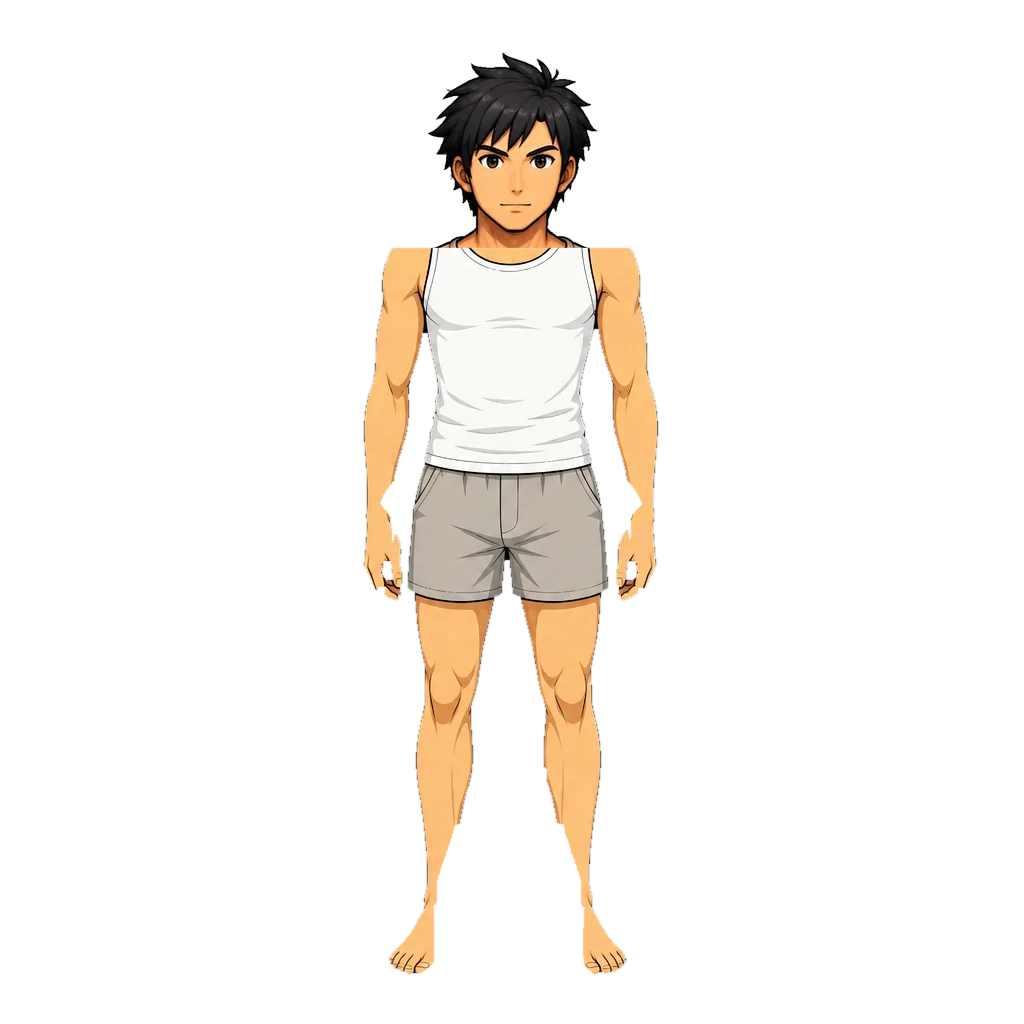
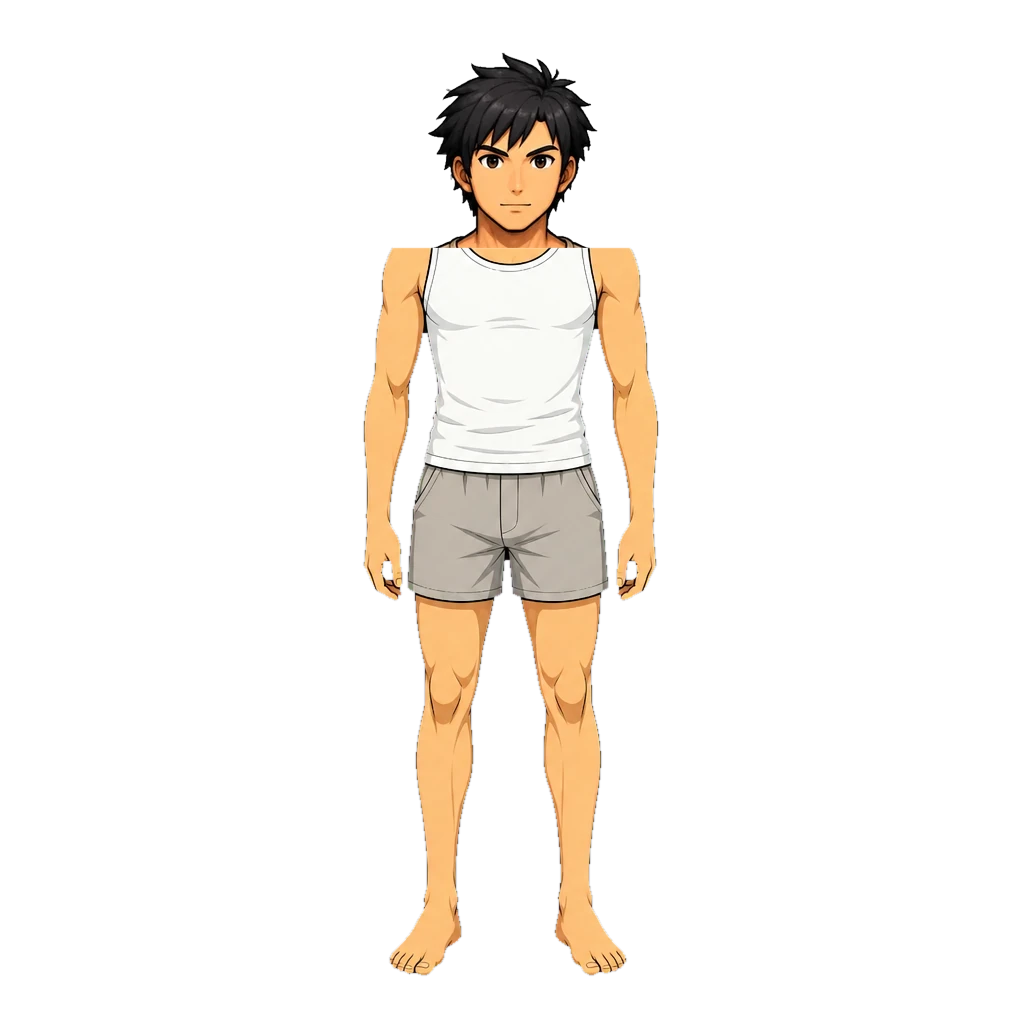
Desnudar una figura de piernas abiertas se comia las piernas
Las tres figuras femeninas salian sin pies y con las piernas fundidas en una
punta a la altura de la rodilla. No era el modelo: las dibujaba enteras.

La zona editable se saca de la silueta de la figura **vestida**, y la femenina
esta de piernas abiertas: a media pantorrilla las botas ocupan x 389-444 y
601-657. El cuerpo desnudo que devuelve el modelo tiene las piernas mucho mas
juntas y estrechas, x 452-478 y 543-569, o sea justo en el hueco de entre medias,
que en una zona hecha de la silueta no existe. Se recortaban enteras.

Al desnudar, la zona rellena ahora cada fila de borde a borde. Solo al desnudar:
ahi se redibuja el cuerpo entero y el hueco entre las piernas es parte del
cuerpo, mientras que para una pieza ese mismo relleno le daria sitio para pintar
donde no toca. La masculina no lo sufria porque tiene las piernas mas juntas, y
por eso no aparecio hasta la sexta figura.

Los seis cuerpos se recompusieron con la zona nueva sin gastar una llamada. Los
tres masculinos salen practicamente iguales —uno o dos pixeles de caja—, porque
ahi el hueco que se rellena es fondo del modelo y se descarta igual.

## Lo que se empuna ya tiene sitio

Las armas y los escudos eran los quince objetos que faltaban del catalogo, y no
cabian en ninguna banda: no se llevan puestos. Las bandas `arma` y `escudo` se
miden desde el centro de la mano —que se busca en cada figura, por el
ensanchamiento del final del brazo— y son un rectangulo con lienzo vacio para la
[…]

diff --git a/scripts/vestir.py b/scripts/vestir.py
@@ -178,6 +178,17 @@ class Banda:
     hasta: int
     holgura: int = 6
 
+    relleno: bool = False
+    """Rellena cada fila de borde a borde de la silueta, huecos incluidos.
+
+    Solo para desnudar, y hace falta de verdad. La figura femenina vestida está
+    de piernas abiertas —a media pantorrilla, las botas ocupan x 389-444 y
+    601-657—, y el cuerpo desnudo que devuelve el modelo tiene las piernas mucho
+    más juntas y estrechas: x 452-478 y 543-569. O sea, justo en el hueco de
+    entre medias, que en una zona hecha de la silueta no existe. Las piernas se
+    recortaban enteras y la figura acababa en una punta a la altura de la rodilla.
+    """
+
     protege_cara: bool = False
     """Saca la cara de la zona editable.
 
@@ -193,6 +204,21 @@ class Banda:
     A la altura de las manos, la fila son tres cosas: mano, cadera, mano. Una
     banda que las una deja al modelo repintar el pantalón cuando lo que se le
     pidió fueron unos guantes.
+    """
+
+    mano: str | None = None
+    """`"diestra"` o `"zurda"`: hace de la banda un rectángulo junto a esa mano.
+
+    Lo que se empuña no se lleva puesto, y por eso no cabe en una franja del
+    cuerpo: una espada es sobre todo hoja, y la hoja está en el aire, al lado de
+    la figura, donde la silueta no llega. Con esta bandera la zona deja de ser
+    «la silueta recortada a unas filas» y pasa a ser un rectángulo centrado en la
+    mano, del que se descuenta el cuerpo salvo en la propia mano, para que la
+    empuñadura se vea agarrada y la hoja tenga aire.
+
+    «Diestra» y «zurda» son desde quien mira, que es como ya lo hace el dibujo
+    vectorial de reserva: el arma a la derecha de la imagen y el escudo a la
+    izquierda.
     """
 
     ancho_maximo: int = 10_000
@@ -215,14 +241,14 @@ BANDAS: dict[str, Banda] = {
     # lienzo entero dibujó **otra persona** —otra cara, otra altura y los brazos
     # cruzados en vez de a los costados—, y una pose distinta invalida de golpe
     # todas las piezas que se pinten después.
-    "base": Banda(desde=195, hasta=970, holgura=3),
+    "base": Banda(relleno=True, desde=195, hasta=970, holgura=3),
     # Y las mismas dos, por tramos, para cuando de una sola pasada se desvía.
     # Cuanta más superficie se le da al modelo, más se inventa: con el lienzo
     # entero dibujó otra persona; con el cuerpo entero, una figura más alta y
     # estrecha que la silueta, que la máscara luego recorta a lo largo. Un tramo
     # corto tiene tan poco margen que no le queda sitio donde desviarse.
-    "base_torso": Banda(desde=195, hasta=470, holgura=3),
-    "base_piernas": Banda(desde=440, hasta=970, holgura=3),
+    "base_torso": Banda(relleno=True, desde=195, hasta=470, holgura=3),
+    "base_piernas": Banda(relleno=True, desde=440, hasta=970, holgura=3),
     # Medido sobre el cuerpo desnudo, bajando fila a fila desde la coronilla: la
     # cabeza se ensancha hasta dy≈80, se estrecha hasta el cuello en dy 165-180 y
     # los hombros arrancan de golpe en dy 195. La banda anterior llegaba a 200 y
@@ -254,6 +280,12 @@ BANDAS: dict[str, Banda] = {
     # antorcha es sobre todo mango, y un guante no: ciñendo la banda a la mano,
     # la antorcha y la pluma salieron invisibles porque no tenían dónde estar.
     "empunado": Banda(desde=400, hasta=600, holgura=14, solo_extremos=True, ancho_maximo=48),
+    # Lo que se empuña de verdad: un arma en la diestra y un escudo en la zurda.
+    # Sus límites son relativos al centro de la mano, no a la coronilla, porque
+    # es la mano la que sostiene la pieza. Una espada sube más de lo que baja: la
+    # hoja va hacia arriba y el pomo queda apenas por debajo del puño.
+    "arma": Banda(desde=-330, hasta=230, mano="diestra"),
+    "escudo": Banda(desde=-200, hasta=200, mano="zurda"),
     # La cara, y solo para los anteojos, que son la única pieza del catálogo que
     # la toca. Iba de 150 a 215, que sobre el cuerpo desnudo es el cuello y los
     # hombros: los 195 de «línea de ojos» venían de otra escala. Con la cabeza
@@ -318,6 +350,9 @@ def zona_editable(figura: Image.Image, ranura: str) -> np.ndarray:
     alfa = np.array(figura.split()[3]) > 40
     top = coronilla(figura)
 
+    if banda.mano:
+        return _junto_a_la_mano(alfa, top, banda)
+
     # Soltar el trozo central va **antes** de ensanchar, no después: la
     # dilatación de doce píxeles salva el hueco entre el brazo y la cadera, así
     # que la fila pasa a ser un solo trozo y el filtro la descartaba entera. Se
@@ -325,6 +360,8 @@ def zona_editable(figura: Image.Image, ranura: str) -> np.ndarray:
     util = _solo_los_extremos(alfa, banda) if banda.solo_extremos else alfa
 
     cuerpo = ndimage.binary_dilation(util, structure=np.ones((3, 3)), iterations=banda.holgura * 4)
+    if banda.relleno:
+        cuerpo = _de_borde_a_borde(cuerpo)
     filas = np.zeros_like(cuerpo)
     arriba = max(0, top + banda.desde)
     abajo = min(LIENZO, top + banda.hasta)
@@ -342,6 +379,70 @@ def zona_editable(figura: Image.Image, ranura: str) -> np.ndarray:
     if banda.protege_cara:
         zona &= ~_la_cara(alfa, top)
     return zona
+
+
+def _centro_de_la_mano(alfa: np.ndarray, top: int, cual: str) -> tuple[int, int]:
+    """Dónde cae una mano, medido sobre la propia figura.
+
+    La mano es el trozo lateral de las filas donde el brazo ya se ha separado del
+    torso: entre ocho y sesenta píxeles de ancho, que la distingue de una pierna.
+    Se promedian varias filas porque una sola puede caer en un dedo.
+    """
+    centros: list[int] = []
+    filas: list[int] = []
+    for dy in range(480, 550, 10):
+        y = top + dy
+        if y >= LIENZO:
+            break
+        etiquetas, cuantos = ndimage.label(alfa[y])
+        trozos = []
+        for i in range(1, cuantos + 1):
+            xs = np.where(etiquetas == i)[0]
+            if 8 < xs.size < 60:
+                trozos.append((int(xs.min()), int(xs.max())))
+        if len(trozos) < 2:
+            continue
+        izq, der = trozos[0], trozos[-1]
+        # «Diestra» es la derecha de quien mira, que es donde el dibujo
+        # vectorial de reserva lleva poniendo el arma desde siempre.
+        elegido = der if cual == "diestra" else izq
+        centros.append((elegido[0] + elegido[1]) // 2)
+        filas.append(y)
+    if not centros:
+        # Sin manos reconocibles, el sitio de siempre: a la altura de la cadera y
+        # al borde de la figura.
+        ancho = np.where(alfa.any(axis=0))[0]
+        x = int(ancho.max()) if cual == "diestra" else int(ancho.min())
+        return x, top + 510
+    return sum(centros) // len(centros), sum(filas) // len(filas)
+
+
+def _junto_a_la_mano(alfa: np.ndarray, top: int, banda: Banda) -> np.ndarray:
+    """Un rectángulo alrededor de una mano, sin el cuerpo dentro.
+
+    El cuerpo se descuenta —si no, pedir una espada acabaría repintando la
+    cadera— salvo un disco alrededor de la propia mano, que es lo que hace que la
+    empuñadura se vea agarrada y no flotando al lado.
+    """
+    cx, cy = _centro_de_la_mano(alfa, top, banda.mano or "diestra")
+    zona = np.zeros_like(alfa)
+    x0, x1 = max(0, cx - 95), min(LIENZO, cx + 95)
+    y0, y1 = max(0, cy + banda.desde), min(LIENZO, cy + banda.hasta)
+    zona[y0:y1, x0:x1] = True
+
+    yy, xx = np.ogrid[:LIENZO, :LIENZO]
+    empunadura = (yy - cy) ** 2 + (xx - cx) ** 2 <= 55**2
+    cuerpo = ndimage.binary_dilation(alfa, structure=np.ones((3, 3)), iterations=8)
+    return zona & (~cuerpo | empunadura)
+
+
+def _de_borde_a_borde(mascara: np.ndarray) -> np.ndarray:
+    """Cada fila, del primer píxel al último; lo de en medio se da por dentro."""
+    lleno = np.zeros_like(mascara)
+    for y in np.where(mascara.any(axis=1))[0]:
+        xs = np.where(mascara[y])[0]
+        lleno[y, xs.min() : xs.max() + 1] = True
+    return lleno
 
 
 def _solo_los_extremos(alfa: np.ndarray, banda: Banda) -> np.ndarray:

diff --git a/scripts/piezas.py b/scripts/piezas.py
@@ -22,13 +22,16 @@ el corte se hace después por geometría —lo que queda fuera de la silueta del
 cuerpo cuelga por detrás, lo que queda dentro es el embozo y el broche—, que es
 gratis y no se puede equivocar.
 
-## Lo que no está aquí
+## Lo que se empuña
 
-Las armas y los escudos, que son quince. No se llevan puestos: se sostienen, y su
-sitio no es una franja del cuerpo sino un rectángulo al lado de la mano, con
-lienzo vacío alrededor. `zona_editable` corta contra la silueta, así que ese
-rectángulo no se puede expresar todavía. Mientras tanto siguen saliendo de ficha
-al margen, que es justo para lo que se dejó ese camino.
+Las armas y los escudos no se llevan puestos: se sostienen, y su sitio no es una
+franja del cuerpo sino un rectángulo al lado de la mano, con lienzo vacío para la
+hoja. Las bandas `arma` y `escudo` lo hacen: se miden desde el centro de la mano,
+que se busca en cada figura, y descuentan el cuerpo salvo un disco alrededor del
+puño, para que la empuñadura se vea agarrada y no flotando.
+
+El arma va a la derecha de quien mira y el escudo a la izquierda, que es donde
+los pone el dibujo vectorial de reserva desde el principio.
 """
 
 from __future__ import annotations
@@ -321,7 +324,128 @@ ACCESORIOS: tuple[Pieza, ...] = (
     ),
 )
 
-TODAS: tuple[Pieza, ...] = CABEZA + CUERPO + CAPA + GUANTES + BOTAS + ACCESORIOS
+# ---------------------------------------------------------------------------
+# Armas
+# ---------------------------------------------------------------------------
+
+ARMAS: tuple[Pieza, ...] = (
+    Pieza(
+        "espada_entrenamiento",
+        "weapon",
+        "arma",
+        "una espada de entrenamiento empuñada con la hoja hacia arriba: filo romo, "
+        "acero mate y guarda sencilla de hierro",
+    ),
+    Pieza(
+        "baston_aprendiz",
+        "weapon",
+        "arma",
+        "un bastón de madera de fresno sin tallar, empuñado en vertical, con varias "
+        "muescas pequeñas grabadas a media altura",
+    ),
+    Pieza(
+        "arco_fresno",
+        "weapon",
+        "arma",
+        "un arco de fresno curvado a mano, sujeto en vertical por el centro y "
+        "encordado con una cuerda de tendón tensa",
+    ),
+    Pieza(
+        "espada_corta_acero",
+        "weapon",
+        "arma",
+        "una espada corta de acero bien templado empuñada con la hoja hacia arriba, "
+        "sin florituras, con la guarda recta",
+    ),
+    Pieza(
+        "arco_bosque_antiguo",
+        "weapon",
+        "arma",
+        "un arco largo de tejo oscuro, sujeto en vertical por el centro, encordado "
+        "con seda clara y rematado en punta de asta",
+    ),
+    Pieza(
+        "espada_obsidiana",
+        "weapon",
+        "arma",
+        "una espada de vidrio volcánico negro empuñada con la hoja hacia arriba, con "
+        "el filo translúcido y reflejos fríos",
+    ),
+    Pieza(
+        "espada_del_sql",
+        "weapon",
+        "arma",
+        "una espada de acero claro empuñada con la hoja hacia arriba, con runas "
+        "grabadas a lo largo del filo y una gema azul en el pomo",
+    ),
+    Pieza(
+        "cetro_bigquery",
+        "weapon",
+        "arma",
+        "un cetro empuñado en vertical, de vara plateada rematada en un cristal "
+        "azul facetado que brilla desde dentro",
+    ),
+    Pieza(
+        "baculo_maestria_ia",
+        "weapon",
+        "arma",
+        "un báculo alto empuñado en vertical, de madera oscura, coronado por una "
+        "lente de cristal engastada en un aro de latón",
+    ),
+)
+
+# ---------------------------------------------------------------------------
+# Secundaria
+# ---------------------------------------------------------------------------
+
+SECUNDARIA: tuple[Pieza, ...] = (
+    Pieza(
+        "escudo_madera",
+        "offhand",
+        "escudo",
+        "un escudo redondo de tablas de roble sujeto por el brazo, con un umbo de "
+        "hierro abollado en el centro",
+    ),
+    Pieza(
+        "escudo_roble",
+        "offhand",
+        "escudo",
+        "un escudo redondo de madera veteada con aro de hierro alrededor, sujeto "
+        "por el brazo",
+    ),
+    Pieza(
+        "escudo_blason_reino",
+        "offhand",
+        "escudo",
+        "un escudo de forma alargada sujeto por el brazo, con el blasón del Reino "
+        "en esmalte de colores y sin una sola muesca",
+    ),
+    Pieza(
+        "escudo_data_engineer",
+        "offhand",
+        "escudo",
+        "un escudo de placas de metal soldadas como las juntas de un acueducto, "
+        "sujeto por el brazo, con los remaches a la vista",
+    ),
+    Pieza(
+        "tomo_erudito",
+        "offhand",
+        "escudo",
+        "un tomo grueso encuadernado en cuero sostenido contra el costado, con tres "
+        "cintas marcapáginas y cantos dorados",
+    ),
+    Pieza(
+        "escudo_primer_desafio",
+        "offhand",
+        "escudo",
+        "un escudo pequeño y sencillo sujeto por el brazo, de madera clara con "
+        "refuerzos de cuero y alguna marca de uso",
+    ),
+)
+
+TODAS: tuple[Pieza, ...] = (
+    CABEZA + CUERPO + CAPA + GUANTES + BOTAS + ACCESORIOS + ARMAS + SECUNDARIA
+)
 
 #: Lo que se genera primero para comprobar las bandas antes de la tanda entera.
 #:
